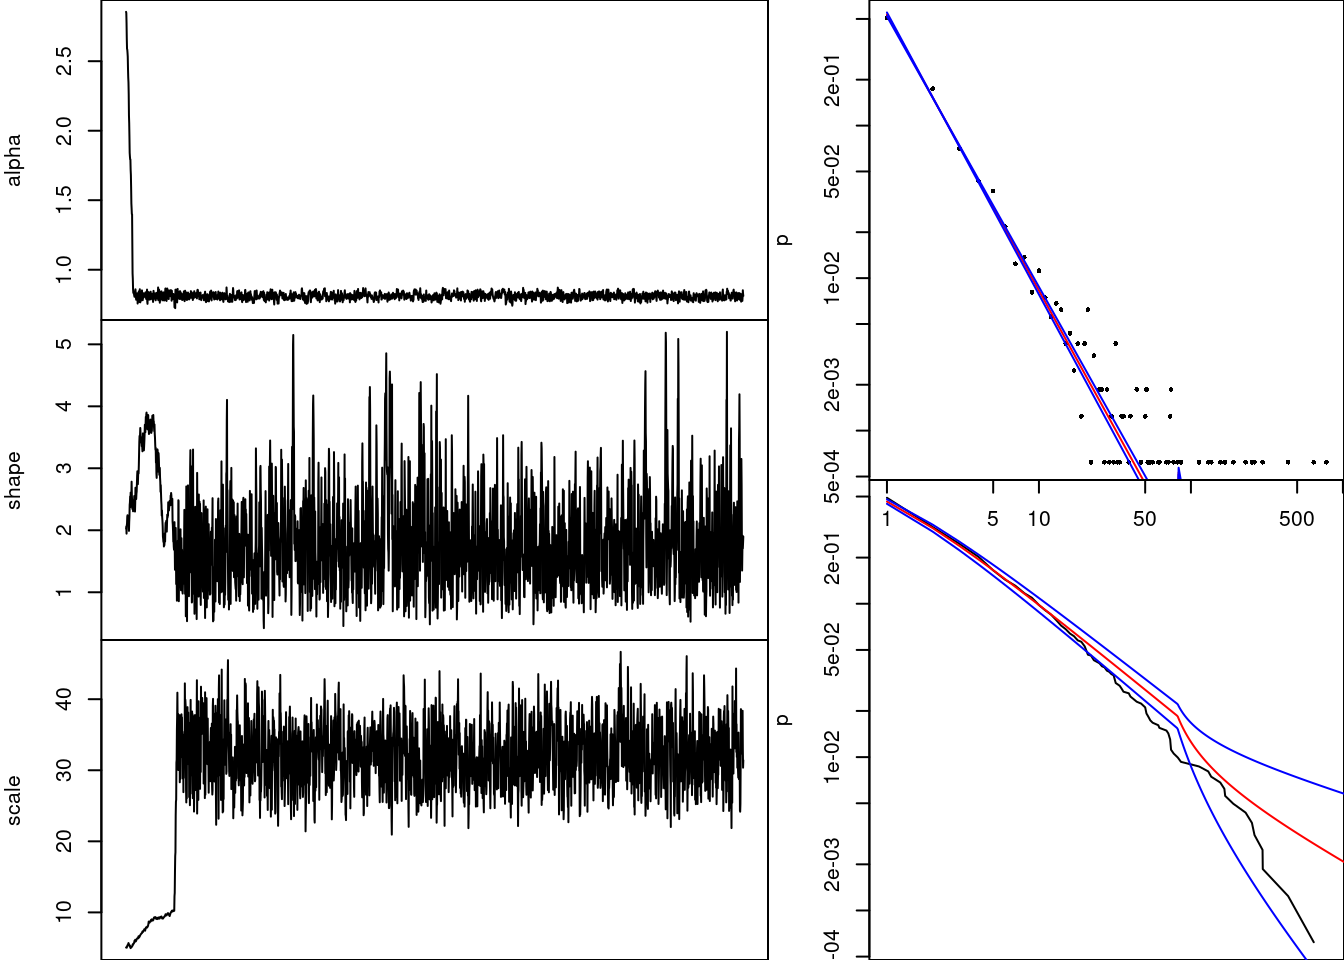
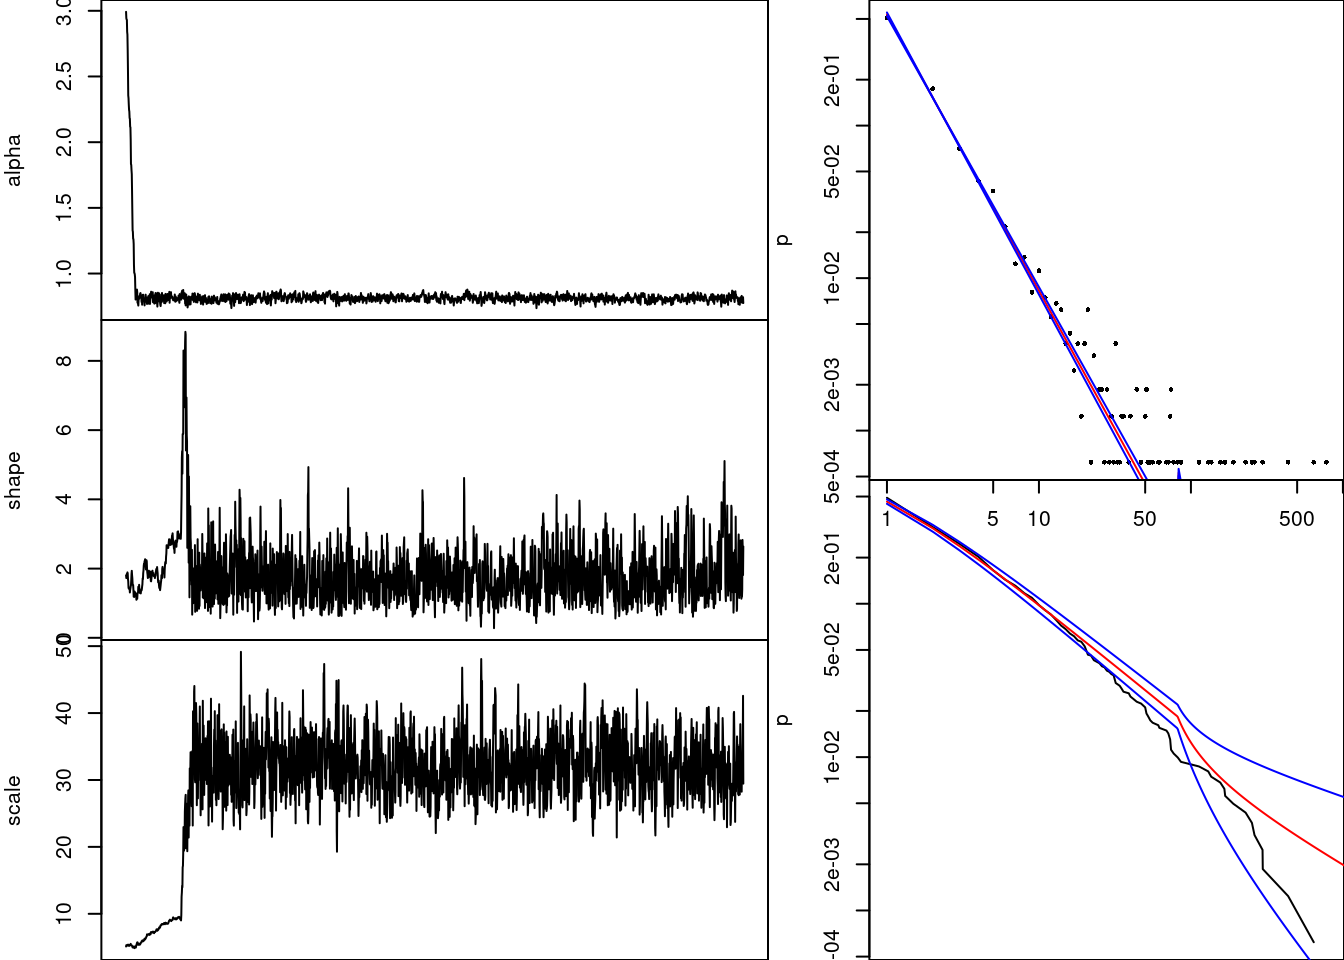
Amended funnctions.R file name

diff --git a/quarto/CRAN.html b/quarto/CRAN.html
@@ -215,8 +215,8 @@ L(x) = \zeta(\alpha+1)^{-n}C_{\alpha,u}^{N-n}\prod_{i:x_i\leq u}x_i^{-(\alpha+1)
 <p>where <span class="math inline">\(C_{\alpha,u} = 1-\zeta(\alpha+1)^{-1}\sum_{k=1}^u k^{-(\alpha+1)}\)</span>.</p>
 <p>Since we wish to use this to construct a Metropolis-Hastings algorithm we again need some priors for the values of the parameters. The priors we use are listed below.</p>
 <p><span class="math display">\[
-\alpha\sim Ga(\gamma,\delta)\\
-\xi \sim N(0,s^2)\\
+\alpha\sim Ga(\gamma,\delta),\\
+\xi \sim N(0,s^2),\\
 \sigma_u \sim Ga(\phi,\psi)
 \]</span></p>
 <p>Which we can then use to construct the joint posterior:</p>
@@ -344,15 +344,6 @@ L(x) = \zeta(\alpha+1)^{-n}C_{\alpha,u}^{N-n}\prod_{i:x_i\leq u}x_i^{-(\alpha+1)
 <div class="cell">
 <div class="cell-output-display">
 <p><img src="CRAN_files/figure-html/unnamed-chunk-19-1.png" class="img-fluid" width="672"></p>
-</div>
-<div class="cell-output cell-output-stdout">
-<pre><code>     alpha            shape            scale       
- Min.   :0.6372   Min.   :0.8407   Min.   : 4.408  
- 1st Qu.:0.6666   1st Qu.:1.3838   1st Qu.:32.088  
- Median :0.6770   Median :1.5757   Median :35.505  
- Mean   :0.6948   Mean   :1.6492   Mean   :33.672  
- 3rd Qu.:0.6866   3rd Qu.:1.8041   3rd Qu.:38.717  
- Max.   :2.9949   Max.   :3.9376   Max.   :48.124  </code></pre>
 </div>
 </div>
 </section>
